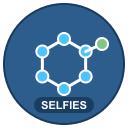
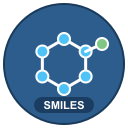
Rebrand to SMILES, scope diagnostics to .smiles.js only, bump to 0.3.16
- Change all command IDs from selfies.* to smiles.* to avoid conflicts
- Change settings keys from selfies.* to smiles.*
- Update icon SVG/PNG to say SMILES
- Update panel viewType and title
- Scope round-trip diagnostics to .smiles.js and .selfies files only,
  no longer flagging arbitrary JS files
- Update README with new command names and settings

Changed region(s): [[0.3125, 0.7812, 0.6875, 0.875]]

diff --git a/src/extension.js b/src/extension.js
@@ -7,13 +7,13 @@ import { initRDKit } from './rdkitRenderer';
 import { refactorMolecule } from './refactorMolecule';
 
 /**
- * Activate the SELFIES extension
+ * Activate the SMILES extension
  * @param {vscode.ExtensionContext} context
  */
 export function activate(context) {
   // Initialize RDKit asynchronously
   initRDKit().catch(() => {
-    vscode.window.showWarningMessage('SELFIES: RDKit initialization failed, using fallback renderer');
+    vscode.window.showWarningMessage('SMILES: RDKit initialization failed, using fallback renderer');
   });
 
   // Create diagnostics provider
@@ -40,7 +40,7 @@ export function activate(context) {
 
   // Register command to show molecular structure
   const showMoleculeCommand = vscode.commands.registerCommand(
-    'selfies.showMolecule',
+    'smiles.showMolecule',
     () => {
       const editor = vscode.window.activeTextEditor;
       if (!isSupportedFile(editor)) {
@@ -67,26 +67,26 @@ export function activate(context) {
 
   // Register command to toggle preview
   const togglePreviewCommand = vscode.commands.registerCommand(
-    'selfies.togglePreview',
+    'smiles.togglePreview',
     () => {
       if (previewPanel) {
         previewPanel.dispose();
         previewPanel = null;
       } else {
-        vscode.commands.executeCommand('selfies.showMolecule');
+        vscode.commands.executeCommand('smiles.showMolecule');
       }
     },
   );
 
   // Auto-open preview if enabled in settings
   const autoOpenPreview = () => {
-    const config = vscode.workspace.getConfiguration('selfies');
+    const config = vscode.workspace.getConfiguration('smiles');
     if (config.get('autoOpenPreview', true)) {
       const editor = vscode.window.activeTextEditor;
       if (isSupportedFile(editor)) {
         // Only auto-open if panel doesn't exist
         if (!previewPanel) {
-          vscode.commands.executeCommand('selfies.showMolecule');
+          vscode.commands.executeCommand('smiles.showMolecule');
         }
       }
     }
@@ -101,7 +101,7 @@ export function activate(context) {
 
   // Listen for cursor position changes
   const cursorChangeListener = lineTracker.onDidChangeCurrentLine((lineInfo) => {
-    const config = vscode.workspace.getConfiguration('selfies');
+    const config = vscode.workspace.getConfiguration('smiles');
     if (config.get('previewOnCursorMove', true) && previewPanel) {
       previewPanel.update(lineInfo);
     }
@@ -112,7 +112,7 @@ export function activate(context) {
 
   // Register refactor molecule command
   const refactorMoleculeCommand = vscode.commands.registerCommand(
-    'selfies.refactorMolecule',
+    'smiles.refactorMolecule',
     () => refactorMolecule(),
   );
 

diff --git a/src/diagnostics.js b/src/diagnostics.js
@@ -123,7 +123,7 @@ function getSeverity(type) {
  * @returns {vscode.Disposable}
  */
 function createDiagnosticsProvider() {
-  const diagnosticCollection = vscode.languages.createDiagnosticCollection('selfies');
+  const diagnosticCollection = vscode.languages.createDiagnosticCollection('smiles');
 
   // Helper function to check if file is supported
   const isSupportedFile = (document) => document.languageId === 'selfies'
@@ -155,7 +155,7 @@ function createDiagnosticsProvider() {
           `Validation error: ${err.message}`,
           vscode.DiagnosticSeverity.Warning,
         );
-        diagnostic.source = 'selfies';
+        diagnostic.source = 'smiles';
         diagnostics.push(diagnostic);
       }
 
@@ -188,7 +188,7 @@ function createDiagnosticsProvider() {
             severity,
           );
 
-          diagnostic.source = 'selfies';
+          diagnostic.source = 'smiles';
 
           // Add error code if available
           if (error.code) {
@@ -218,7 +218,7 @@ function createDiagnosticsProvider() {
             vscode.DiagnosticSeverity.Warning,
           );
 
-          diagnostic.source = 'selfies';
+          diagnostic.source = 'smiles';
           diagnostics.push(diagnostic);
         });
       }
@@ -229,7 +229,7 @@ function createDiagnosticsProvider() {
         `Failed to parse SELFIES file: ${err.message}`,
         vscode.DiagnosticSeverity.Error,
       );
-      diagnostic.source = 'selfies';
+      diagnostic.source = 'smiles';
       diagnostics.push(diagnostic);
     }
 

diff --git a/src/roundtripDiagnostics.js b/src/roundtripDiagnostics.js
@@ -74,8 +74,10 @@ function extractSMILESFromLine(line, lineNumber) {
 function createRoundTripDiagnostics(document) {
   const diagnostics = [];
 
-  // Only check JavaScript/TypeScript files and SELFIES files
-  if (!['javascript', 'typescript', 'selfies'].includes(document.languageId)) {
+  // Only check .smiles.js files and .selfies files
+  const isSmilesJS = document.fileName.endsWith('.smiles.js');
+  const isSelfies = document.languageId === 'selfies';
+  if (!isSmilesJS && !isSelfies) {
     return diagnostics;
   }
 
@@ -185,7 +187,10 @@ function createRoundTripDiagnosticsProvider() {
 
   // Register code action provider for quick fixes
   const codeActionProvider = vscode.languages.registerCodeActionsProvider(
-    ['javascript', 'typescript', 'selfies'],
+    [
+      { language: 'selfies' },
+      { language: 'javascript', pattern: '**/*.smiles.js' },
+    ],
     {
       provideCodeActions(document, range, context) {
         const codeActions = [];

diff --git a/src/webview/panel.js b/src/webview/panel.js
@@ -21,8 +21,8 @@ class PreviewPanel {
      */
   _create() {
     this._panel = vscode.window.createWebviewPanel(
-      'selfiesPreview',
-      'SELFIES Preview',
+      'smilesPreview',
+      'SMILES Preview',
       vscode.ViewColumn.Beside,
       {
         enableScripts: true,

diff --git a/README.md b/README.md
@@ -120,9 +120,9 @@ import [methyl, ethyl] from "./fragments.selfies"  # import specific
 
 ## Commands
 
-- `SELFIES: Show Molecular Structure` — Open the preview panel
-- `SELFIES: Toggle Preview Panel` — Toggle preview on/off
-- `SELFIES: Refactor Molecule to Code` — Convert a Fragment to constructor code (right-click menu in `.smiles.js` files)
+- `SMILES: Show Molecular Structure` — Open the preview panel
+- `SMILES: Toggle Preview Panel` — Toggle preview on/off
+- `SMILES: Refactor Molecule to Code` — Convert a Fragment to constructor code (right-click menu in `.smiles.js` files)
 
 ### Refactor to Code (Experimental)
 
@@ -130,7 +130,7 @@ import [methyl, ethyl] from "./fragments.selfies"  # import specific
   <img src="https://raw.githubusercontent.com/Ghost---Shadow/smiles-vscode/main/refactor-to-code.png" alt="Refactor to Code" width="600"/>
 </p>
 
-Right-click on any line with an exported Fragment in a `.smiles.js` file and select "SELFIES: Refactor Molecule to Code" to convert it into explicit Ring/Linear constructor calls.
+Right-click on any line with an exported Fragment in a `.smiles.js` file and select "SMILES: Refactor Molecule to Code" to convert it into explicit Ring/Linear constructor calls.
 
 > **Note:** This feature is early in development and often fails for complex molecular structures. It works best with simple fragments.
 
@@ -138,9 +138,9 @@ Right-click on any line with an exported Fragment in a `.smiles.js` file and sel
 
 | Setting | Default | Description |
 |---------|---------|-------------|
-| `selfies.previewOnCursorMove` | `true` | Update preview when cursor moves |
-| `selfies.autoOpenPreview` | `true` | Auto-open preview for `.selfies` and `.smiles.js` files |
-| `selfies.renderingEngine` | `smiles-drawer` | Molecule rendering engine |
+| `smiles.previewOnCursorMove` | `true` | Update preview when cursor moves |
+| `smiles.autoOpenPreview` | `true` | Auto-open preview for `.selfies` and `.smiles.js` files |
+| `smiles.renderingEngine` | `smiles-drawer` | Molecule rendering engine |
 
 ## Language Rules
 
